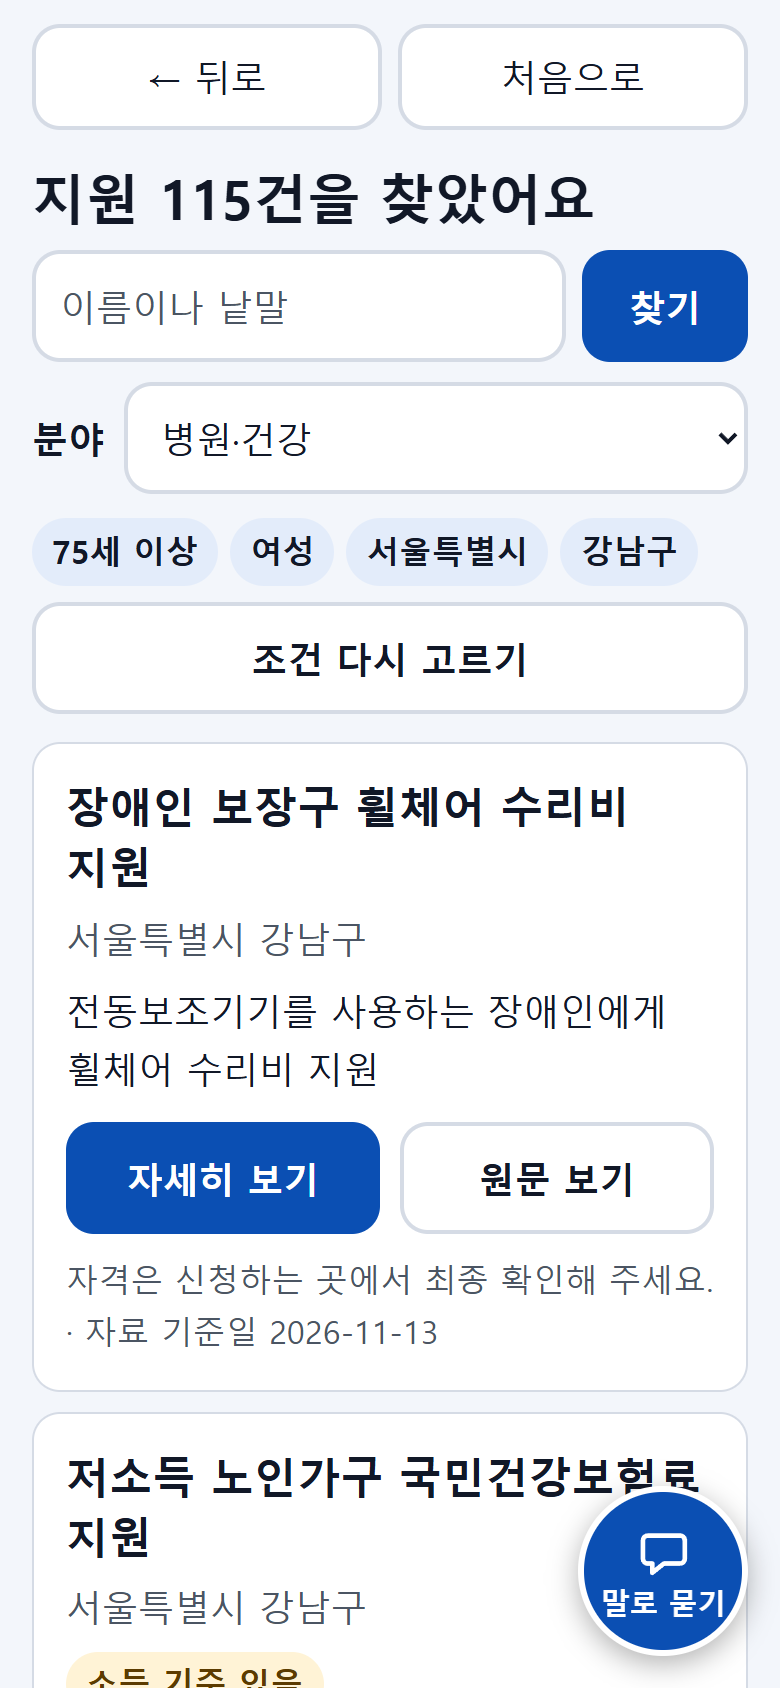
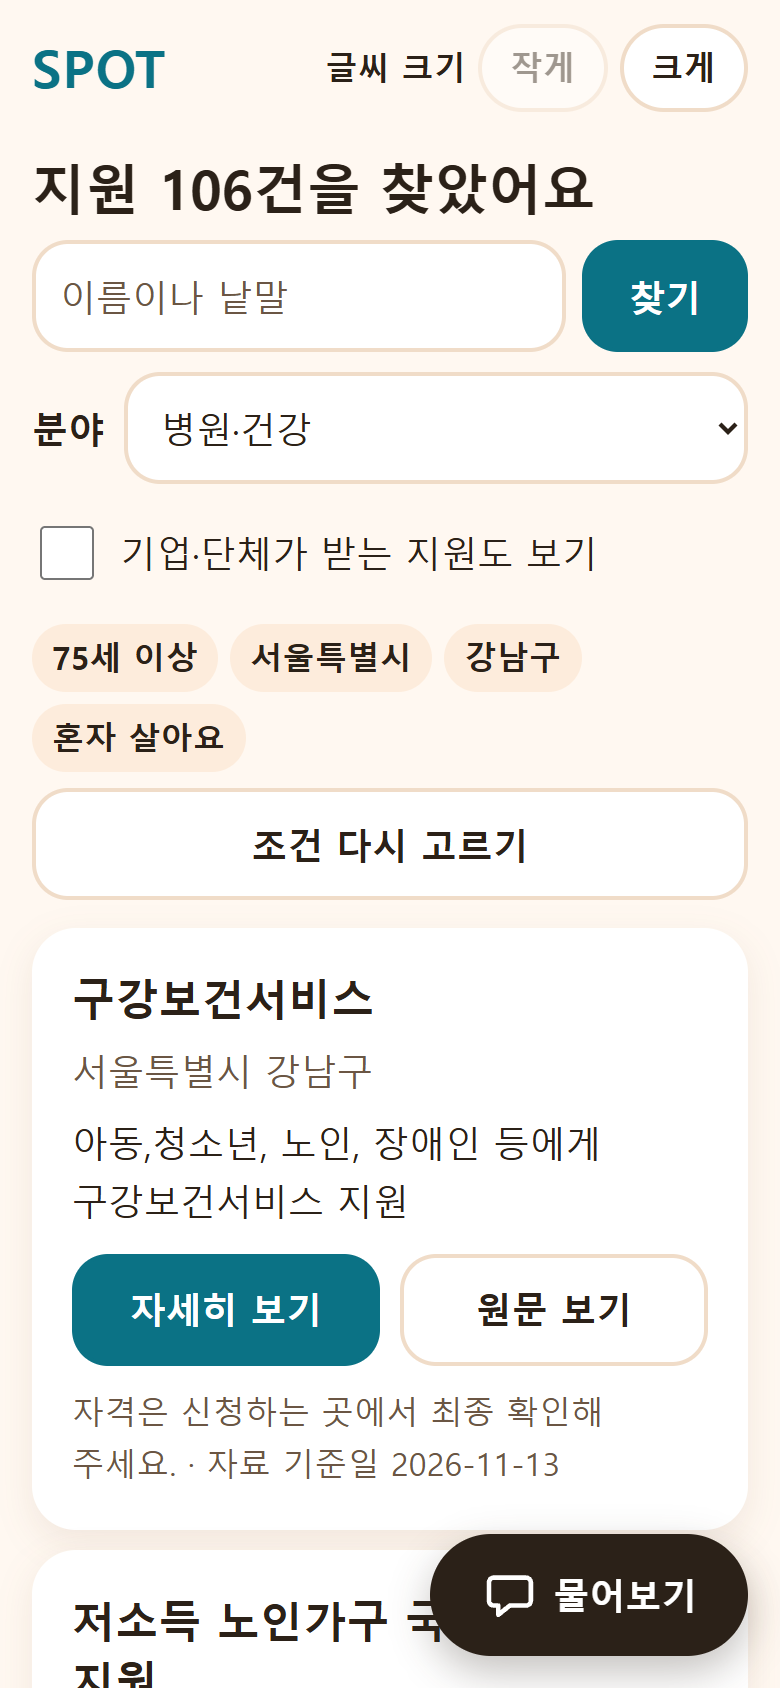
카드에서 지난해 이전 날짜로만 적힌 신청 기간은 보여 주지 않음(상세 화면에는 원문 그대로), 발표용 스크린샷 다시 찍기, README 진행 상황과 정확도 정리, 시연 순서 문서 추가

diff --git a/web/js/api.js b/web/js/api.js
@@ -82,8 +82,12 @@
     const oneLine = realText(policy.one_line);
     if (oneLine) card.append(el("p", "", oneLine));
     // 신청 기간이 정해져 있으면 카드에서 바로 보여 준다 (늘 신청할 수 있는 것, 긴 설명은 상세 화면에서)
+    // 적힌 연도가 모두 지난해 이전이면("2022.10.16 ~ 2022.11.22") 카드에는 보여 주지 않는다.
+    // 원본 자료에 옛 기간이 그대로 남은 정책이 있다. 정책을 숨기지는 않고, 상세 화면에는 원문 그대로 보여 준다.
     const period = (policy.apply_period || "").trim();
-    if (period && period.length <= 30 && !/^(상시신청|접수기관 별 상이|연중)$/.test(period)) {
+    const years = period.match(/20\d\d/g);
+    const past = years && years.every((y) => Number(y) < new Date().getFullYear());
+    if (period && !past && period.length <= 30 && !/^(상시신청|접수기관 별 상이|연중)$/.test(period)) {
       card.append(el("p", "period", "신청 기간: " + period));
     }
 

diff --git a/web/service-worker.js b/web/service-worker.js
@@ -1,6 +1,6 @@
 // SPOT 서비스 워커: 화면 파일(HTML·CSS·JS·아이콘)만 캐시한다. API 응답은 캐시하지 않는다.
 // 화면 파일을 고쳐서 다시 배포할 때는 아래 버전 숫자를 올린다 (옛 캐시가 지워진다).
-const CACHE = "spot-v20";
+const CACHE = "spot-v21";
 
 const SCREEN_FILES = [
   "./",

diff --git a/app/services/messenger.py b/app/services/messenger.py
@@ -20,6 +20,7 @@ import csv
 import datetime
 import hashlib
 import json
+import re
 import secrets
 import threading
 import time
@@ -172,6 +173,12 @@ def _ask(item):
     return _ask_age() if item == "age_group" else _ask_sido()
 
 
+def past_period(period, today=None):
+    """적힌 연도가 모두 지난해 이전인 신청 기간인지 ("2022.10.16 ~ 2022.11.22"). 웹 카드(web/js/api.js)와 같은 규칙."""
+    years = [int(y) for y in re.findall(r"20\d\d", period or "")]
+    return bool(years) and all(y < (today or datetime.date.today()).year for y in years)
+
+
 def policy_text(number, policy):
     """정책 하나를 글로. 내용은 DB 값 그대로이고, AI가 쓴 것은 한 줄 요약(one_line)뿐이다."""
     lines = [f"{number}. {policy['name']}"]
@@ -182,7 +189,7 @@ def policy_text(number, policy):
     if policy.get("has_income_rule"):
         lines.append("※ 소득 기준 있음")
     period = (policy.get("apply_period") or "").strip()
-    if period and len(period) <= 30 and period not in PLAIN_PERIODS:
+    if period and len(period) <= 30 and period not in PLAIN_PERIODS and not past_period(period):
         lines.append(f"신청 기간: {period}")
     if policy.get("collected_at"):
         lines.append(f"자료 기준일: {policy['collected_at']}")

diff --git a/tests/test_messenger.py b/tests/test_messenger.py
@@ -218,3 +218,12 @@ def test_greeting_is_not_a_question():
         assert replies[0]["text"].startswith("안녕하세요, SPOT이에요.")
     assert not messenger.is_greeting("안녕하세요 병원비 지원이 있나요?")
     assert messenger._daily == {}   # 인사는 하루 질문 수에 넣지 않는다
+
+
+def test_past_apply_period_is_not_shown_on_card():
+    """원본에 옛 기간이 남은 정책은 카드에 신청 기간을 보여 주지 않는다."""
+    d = datetime.date(2026, 11, 23)
+    assert messenger.past_period("2022.10.16 ~ 2022.11.22", d)
+    assert not messenger.past_period("2026. 6. 15. ~ 2026. 12. 31.", d)
+    assert not messenger.past_period("매년 1월", d)
+    assert "신청 기간" not in messenger.policy_text(1, {**CARD, "apply_period": "2022.07.11 ~ 2022.08.25"})

diff --git a/README.md b/README.md
@@ -41,6 +41,11 @@
 - [x] 직접 찾기 보완 (2026-11-15): 조건 고르기 첫 단계에 분야 추가, 개인·가구가 받는 지원만 기본으로 보여 주기, 검색창에서 비슷한 말로도 찾기 ("난방비" → 에너지바우처)
 - [x] 시험 결과로 고침 (2026-11-15): "18세 이하"에서 어른 정책 빼기, 조회수 많은 순으로 보여 주기, 특정 지역 한정 정책 빼기, 비슷한 말 추가 — 첫 화면 정확도 74% → 92%, 낱말 검색 30개 중 27개 → 29개
 - [x] 상세 화면 보강 (2026-11-17): 신청 기간과 준비할 서류 표시, 상세 화면에 [가족에게 공유] [주민센터에서 보여주기] 추가. AI 답변 평가를 다시 돌려 30개 중 29개(97%), 지어낸 정책 언급 0건 확인
+- [x] 디자인 변경 (2026-11-18): "따뜻한 파스텔"(크림색 바탕, 청록 강조색, 분야별 파스텔 동그라미), 글씨 크기 4단계, [말로 하기]·[소리로 듣기], 인터넷 끊김 안내
+- [x] 메신저 연결 (2026-11-18~21): 텔레그램, 디스코드, 네이버 톡톡, 카카오톡 채널에서도 같은 방식으로 물어볼 수 있음
+- [x] 자주 묻는 질문 124개 주제 (2026-11-21): 자주 묻는 질문은 AI 없이 바로 답함 (Groq 한도 절약, 답이 빠르고 한결같음)
+- [x] 정책 검색용 꼬리표 (2026-11-22~23): 정책 10,942건 모두에 "받는 사람 나이 무리·특정 대상·어르신이 쓸 법한 일상 표현"을 붙여 나이가 안 맞는 정책을 거르고 일상 말로도 찾게 함
+- [x] 이어서 묻기 (2026-11-22): 결과를 본 뒤 "서류는요?", "어디서 신청해요?"라고 물으면 AI 없이 DB 값으로 바로 답함
 
 ## 성과 목표 확인
 
@@ -52,9 +57,11 @@
 | 사용 편의성 | 60대 이상 평균 4점 이상 | 아직 확인 못 함 | 사용자 테스트 설문 |
 | 조회 정확도 | 조건 부합 90% 이상 | 첫 화면 10건 × 5세트: 50건 중 부합 46건, 애매 1건, 불일치 3건 (92%). 고치기 전에는 37건(74%) | 사용자가 실제로 보는 첫 화면을 원문과 대조 ([docs/search_accuracy.md](docs/search_accuracy.md), 2026-11-15 저녁). 무작위 표본 100건은 고치기 전 85~95% |
 | 검색 품질 | 80% 이상 | 30개 중 30개 (100%) | `python scripts/eval_scenarios.py --no-llm` (2026-11-15) |
-| 채팅 답변 정확도 | 적합 80% 이상, 없는 정책 언급 0건 | 30개 중 28~30개 (93~100%), 0건 | `python scripts/eval_scenarios.py` (2026-11-14, 11-15) |
+| 채팅 답변 정확도 | 적합 80% 이상, 없는 정책 언급 0건 | **처음 보는 질문 60개: 정확 77%, 부분 13%, 틀림 10%**, 없는 정책 언급 0건, 나이가 안 맞는 정책 1건. (규칙을 맞춘 시나리오 30개는 93~100%) | 꼬리표·결과를 보지 않은 에이전트가 쓴 어르신 말투 질문(`data/scenarios_tags2.json`)을 실제 채팅과 똑같이 돌려(`python scripts/eval_answers.py`) Claude가 하나씩 채점 (2026-11-23) |
 
 숫자를 읽을 때 주의할 점:
+
+- 채팅 답변 정확도는 처음 보는 질문으로 잰 77%가 실제에 가깝습니다. 틀린 질문은 대부분 AI 없이 바로 답하는 자주 묻는 질문에서 엉뚱한 주제에 걸린 경우("어른 기저귀" → 영아 기저귀)이거나, 어르신 전용 정책 대신 일반 정책이 나온 경우입니다.
 
 - 시나리오 30개는 놓친 것을 보고 규칙을 고친 질문들이라 실제보다 좋게 나옵니다. 규칙을 만들 때 보지 않은 새 질문 12개는 검색 기준 9개(75%)였고, 실제 사용에서는 이쪽에 가까울 것으로 봅니다.
 - 채팅 답변 평가는 "기대한 정책이 답변에 들어갔는가"만 자동으로 셉니다. 함께 나온 다른 정책이 상황에 맞는지는 사람이 읽어 봐야 합니다.
@@ -62,11 +69,11 @@
 
 ## 화면
 
-| 시작 | 낱말로 찾은 결과 | 조건과 분야로 좁힌 결과 | 채팅 결과 |
+| 시작 | 낱말로 찾은 결과 | 채팅 결과 | 이어서 묻기 |
 |---|---|---|---|
-| <img src="docs/screenshots/01-시작-화면.png" width="180"> | <img src="docs/screenshots/17-낱말로-찾기-결과.png" width="180"> | <img src="docs/screenshots/19-조건과-분야로-좁힌-결과.png" width="180"> | <img src="docs/screenshots/04-채팅-결과.png" width="180"> |
+| <img src="docs/screenshots/01-시작-화면.png" width="180"> | <img src="docs/screenshots/17-낱말로-찾기-결과.png" width="180"> | <img src="docs/screenshots/04-채팅-결과.png" width="180"> | <img src="docs/screenshots/25-채팅-이어서-묻기.png" width="180"> |
 
-조건 고르기, 채팅 되묻기, 정책 상세, 공유 화면, 주민센터에서 보여주기, 큰 글씨·또렷한 화면 등 나머지 화면은 [docs/screenshots/](docs/screenshots/)에 있습니다 (휴대폰 크기 390×844, 2026-11-15에 내 컴퓨터에서 실행해 찍음).
+위 화면과 01, 04, 11, 17, 19, 20, 21, 25번은 2026-11-23에 배포 주소에서 다시 찍었습니다 (휴대폰 390×844, 컴퓨터 1280×800). 나머지 번호는 2026-11-15에 찍은 것이라 예전 디자인(파랑)입니다.
 
 컴퓨터에서는 같은 주소가 넓은 배치로 보입니다 (20~22번 스크린샷, 폭 1280px).
 
@@ -136,7 +143,7 @@ python scripts/load_regions.py
 - 안드로이드(Chrome): 사이트를 열고 오른쪽 위 메뉴(⋮) → **홈 화면에 추가** (또는 **앱 설치**)
 - 아이폰(Safari): 아래 공유 버튼 → **홈 화면에 추가**
 
-화면 파일(`web/`)을 고쳐서 다시 배포할 때는 `web/service-worker.js` 맨 위의 `spot-v8` 숫자를 올립니다.
+화면 파일(`web/`)을 고쳐서 다시 배포할 때는 `web/service-worker.js` 맨 위의 `spot-v21` 같은 숫자를 올립니다.
 화면은 항상 새 것을 먼저 받아 오므로 올리지 않아도 동작하지만, 숫자를 올리면 휴대폰에 남은 옛 캐시가 지워집니다.
 
 ## 검색 평가
@@ -153,6 +160,26 @@ python scripts/eval_scenarios.py --no-llm --analyze
 ```
 
 시나리오 30개(`data/scenarios.json`)의 기대 정책이 후보 8개 안에 드는 비율과 거리 분포를 보여 줍니다.
+
+```powershell
+# 실제 채팅과 똑같이(분석 AI + 답변 AI) 돌려 답을 파일에 저장 (60개에 20~30분, Groq 120번쯤)
+python scripts/eval_answers.py data/scenarios_tags2.json answers.json
+
+# 자주 묻는 질문 정확도 (AI 안 씀)
+python scripts/eval_faq.py
+# 꼬리표 적용 전후 비교 (AI 안 씀)
+python scripts/eval_tags.py
+```
+
+## 새 정책이 생겼을 때 (꼬리표 붙이기)
+
+```powershell
+python scripts/ingest.py               # 수집. 꼬리표가 없는 정책 수를 알려 줍니다
+python scripts/tag_new.py              # 꼬리표 없는 정책만 Groq로 꼬리표 만들기 (또는 Claude Code에 맡기기)
+python scripts/ingest.py --from-raw    # 꼬리표를 붙여 다시 저장
+```
+
+꼬리표가 없어도 서비스는 예전 방식으로 동작합니다. 자세한 내용은 [PROJECT_SPEC.md](PROJECT_SPEC.md) 8-6.
 
 ## 조회 정확도 확인
 

diff --git a/docs/demo.md b/docs/demo.md
@@ -1,0 +1,37 @@
+# 시연 순서 (2026-11-23 배포 주소에서 리허설함)
+
+배포 주소: https://spot-0eg5.onrender.com
+
+## 시연 10분 전
+- 휴대폰과 노트북에서 배포 주소를 열어 둔다. 무료 서버는 15분쯤 쉬면 잠들고, 깨어나는 데 1분쯤 걸린다.
+- 주소 끝에 `/api/health`를 붙여 `{"status":"ok", ...}`가 나오는지 본다.
+- 학교 와이파이가 안 될 때를 대비해 휴대폰 핫스팟을 켜 둔다.
+- 아래 순서를 한 번 녹화해 둔다 (인터넷·Groq가 안 될 때 보여 줄 영상).
+
+## 순서 (10분 안팎)
+1. **시작 화면**: 큰 글씨, 분야 버튼 10개, 검색창. [크게] 버튼으로 글씨를 키워 보인다.
+2. **낱말로 찾기**: 검색창에 "난방비" → 에너지바우처가 나온다 ("비슷한 말로도 찾았어요" 안내).
+3. **조건으로 좁히기**: 75세 이상 · 서울 강남구 · 혼자 살아요 → 강남구·서울시 정책이 먼저 나온다.
+4. **정책 상세**: 기초연금 → 신청 기간, 준비할 서류, 문의처 전화, [소리로 듣기], [주민센터에서 보여주기].
+5. **물어보기 (채팅)**: 아래 질문 중 2~3개. 처음에 나이대·지역 버튼을 고르면 그다음부터는 묻지 않는다.
+6. **이어서 묻기**: 결과를 본 뒤 "서류는 뭐가 필요해요?" → 방금 본 정책의 서류가 바로 나온다 (AI 안 씀).
+7. **가족에게 공유**: 링크로 같은 결과를 볼 수 있다.
+
+## 채팅에 쓸 질문 (75세 · 서울 강남구로 3번씩 돌려 매번 같은 답이 나온 것)
+| 질문 | 나오는 정책 | 보여 줄 점 |
+|---|---|---|
+| 나라에서 노인들한테 매달 주는 돈 있잖아요. 나도 받을 수 있나요? | 기초연금 | 정책 이름을 몰라도 찾는다 |
+| 혼자 사는데 밤에 쓰러지기라도 하면 아무도 모를까 봐 무서워요 | 응급안전안심서비스, 노인맞춤돌봄 | 상황만 말해도 서비스를 찾는다 |
+| 요즘 자꾸 깜빡깜빡해서 혹시 치매인가 싶어요. 검사를 돈 안 들이고 받을 수 있나요? | 치매검진, 치매안심센터 | |
+| 무릎 연골이 다 닳아서 수술해야 한대요. 수술비 도와주는 데가 있을까요? | 노인 무릎인공관절 수술 지원 | 1초 안에 답 (자주 묻는 질문, AI 안 씀) |
+| 영화 한 편 보고 싶은데 돈이 없어요 | 문화누리카드 | 복지 밖 분야도 찾는다 |
+| 연탄 때는디 연탄값 도와주는거 잇나 | 연탄쿠폰, 에너지바우처 | 사투리·맞춤법이 틀려도 알아듣는다 |
+
+피할 질문: "허리가 아파서 병원에 가려는데…"(예시 버튼)는 긴급복지·의료급여 같은 일반 정책만 나와서 인상이 약하다.
+
+## 질문이 나오면
+- **정확도**: 처음 보는 어르신 말투 질문 60개를 실제와 똑같이 돌려 채점하면 정확 77%, 부분 13%, 틀림 10%. 없는 정책을 지어낸 것은 0건 (카드 내용은 모두 공공데이터 원문, AI가 쓴 것은 한 줄 요약뿐).
+- **AI가 안 되면?**: 직접 찾기(낱말·분야·조건)는 AI를 쓰지 않아서 항상 된다. 채팅은 "버튼으로 찾아 볼까요?"로 넘어간다.
+- **개인정보**: 로그인 없음, 대화는 저장하지 않음, 전화번호·주민번호는 AI에 보내기 전에 가린다.
+- **비용**: 모두 무료 (Render, Neon, Groq 무료 한도, 공공데이터포털).
+- **자격 판단**: 하지 않는다. 소득 기준이 있는 정책은 "소득 기준 있음" 표시 후 복지로 모의계산·주민센터로 안내한다.

diff --git a/PROJECT_SPEC.md b/PROJECT_SPEC.md
@@ -658,6 +658,7 @@ LIMIT 8;
 - 신청 기간은 목록 응답의 `신청기한`을 원문 그대로 저장한다 (전체 10,942건에 값이 있다. "상시신청" 6,444건, "접수기관 별 상이" 864건, 나머지는 "매년 1월"이나 날짜). 날짜를 해석해서 끝난 정책을 숨기지는 않는다 (적는 방식이 제각각이라 잘못 숨길 수 있다).
 - 준비할 서류는 상세 응답의 `구비서류`다. "해당없음", "없음", "-"처럼 없다는 뜻의 값은 저장하지 않는다 (값이 있는 정책 6,540건).
 - 정책 카드에는 신청 기간이 30자 이하이고 "상시신청"·"접수기관 별 상이"·"연중"이 아닐 때만 한 줄로 보여 준다. 나머지는 상세 화면에서 본다.
+- 신청 기간에 적힌 연도가 모두 지난해 이전이면("2022.10.16 ~ 2022.11.22") 카드에는 보여 주지 않는다 (2026-11-23). 원본 자료에 옛 기간이 그대로 남은 개인 대상 정책이 36건 있다. 정책을 숨기지는 않고, 상세 화면에는 원문 그대로 보여 준다 (웹 `api.js`, 메신저 `messenger.past_period`).
 - [주민센터에서 보여주기] 화면에도 신청 기간을 함께 보여 준다.
 
 ### 소득 기준이 있는 정책 (2026-11-18 추가)
